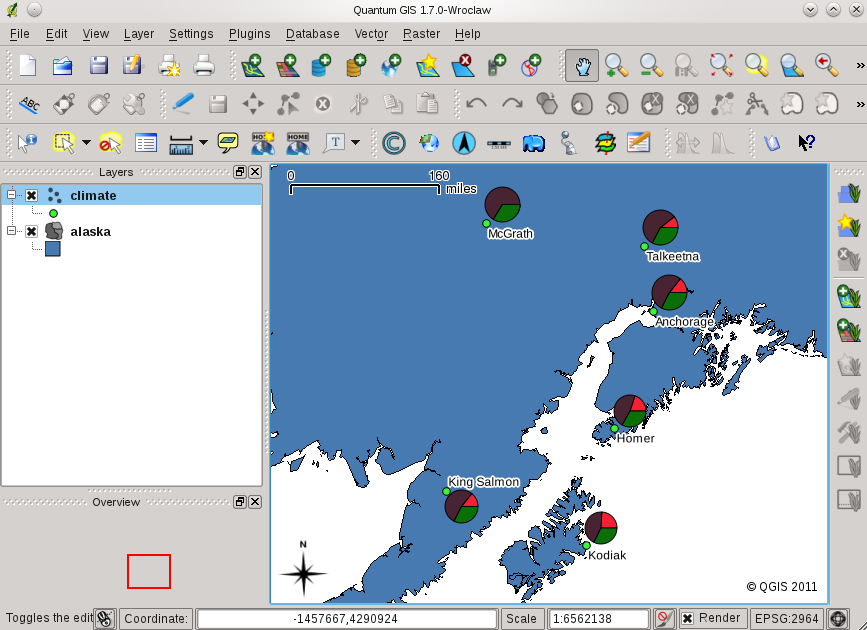
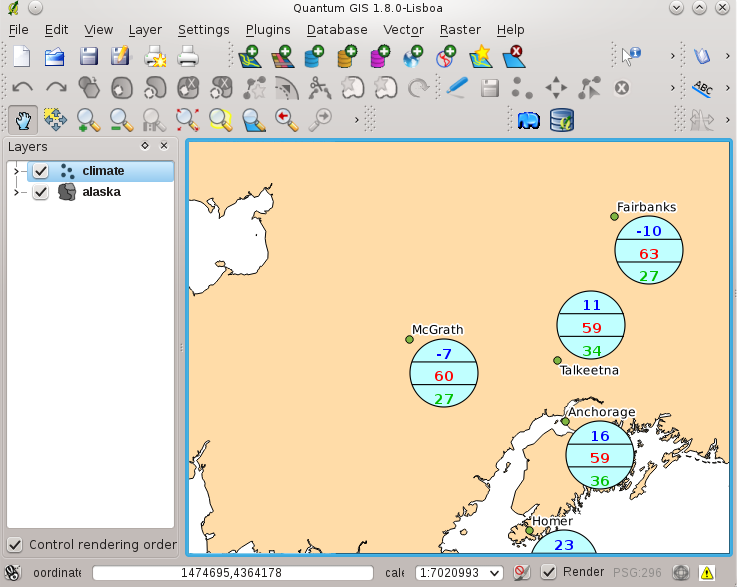
update diagrams tab section

diff --git a/source/docs/user_manual/working_with_vector/vector_properties.rst b/source/docs/user_manual/working_with_vector/vector_properties.rst
@@ -1187,11 +1187,16 @@ layer (see figure_diagrams_1_).
    Vector properties dialog with diagram tab |nix|
 
 The current core implementation of diagrams provides support for piecharts 
-and text diagrams, and for linear scaling of the diagram size according to 
-a classification attribute. The placement of the diagrams interacts with the 
-new labeling. We will demonstrate an example and overlay the alaska boundary 
-layer a piechart diagram showing some temperature data from a climate vector 
-layer. Both vector layers are part of the |qg| sample dataset (see Section 
+and text diagrams. Text values of different data columns are displayed one 
+below the other with a circle or a box and dividers. Diagram size is based 
+on a fixed size or on linear scaling according to a classification attribute. 
+The placement of the diagrams interacts with the new labeling, so position 
+conflicts between diagrams and labels are detected and solved. In addition 
+to chart positions can be fixed by the users hand.
+
+We will demonstrate an example and overlay the alaska boundary layer a 
+piechart diagram showing some temperature data from a climate vector layer. 
+Both vector layers are part of the |qg| sample dataset (see Section 
 :ref:`label_sampledata`).
 
 #.  First click on the |mActionAddOgrLayer| :sup:`Load Vector` icon, browse 
@@ -1199,15 +1204,15 @@ layer. Both vector layers are part of the |qg| sample dataset (see Section
     :file:`alaska.shp` and :file:`climate.shp`.
 #.  Double click the ``climate`` layer in the map legend to open the 
     :guilabel:`Layer Properties` dialog.
-#.  Click on the ``Diagram Overlay`` and select **[Pie chart]** as Diagram type.
+#.  Click on the ``Diagrams``, activate ``Display diagrams`` and select 
+    **[Text diagram]** as Diagram type.
+#.  As Background color we choose a light blue and set a fixed size to 18 mm.
+#.  Placement could be set to AroundPoint.
 #.  In the diagram we want to display the values of the three columns 
     ``T_F_JAN``, ``T_F_JUL`` and ``T_F_MEAN``. First select ``T_F_JAN`` as 
     Attributes and click the green **[\+]** button, then ``T_F_JUL`` and 
     finally ``T_F_MEAN``.
-#.  For linear scaling of the diagram size we define ``T_F_JUL`` as 
-    classification attribute.
-#.  Now click on **[Find maximum value]**, choose 10 as size value and click 
-    **[Apply]** to display the diagram in the |qg| main window.
+#.  Now click **[Apply]** to display the diagram in the |qg| main window.
 #.  You can now adapt the chart size, or change the attribute colors double 
     clicking on the color values in the attribute field. Figure_diagrams_2_ 
     gives an impression.

diff --git a/source/docs/user_manual/preamble/preamble.rst b/source/docs/user_manual/preamble/preamble.rst
@@ -63,7 +63,7 @@ handles both identically.
 .. **Translators who contributed to this translated version (Not English)**
 ..
 
-Copyright (c) 2004 - 2012 QGIS Development Team
+Copyright (c) 2004 - 2013 QGIS Development Team
 
 **Internet:** http://www.qgis.org
 
